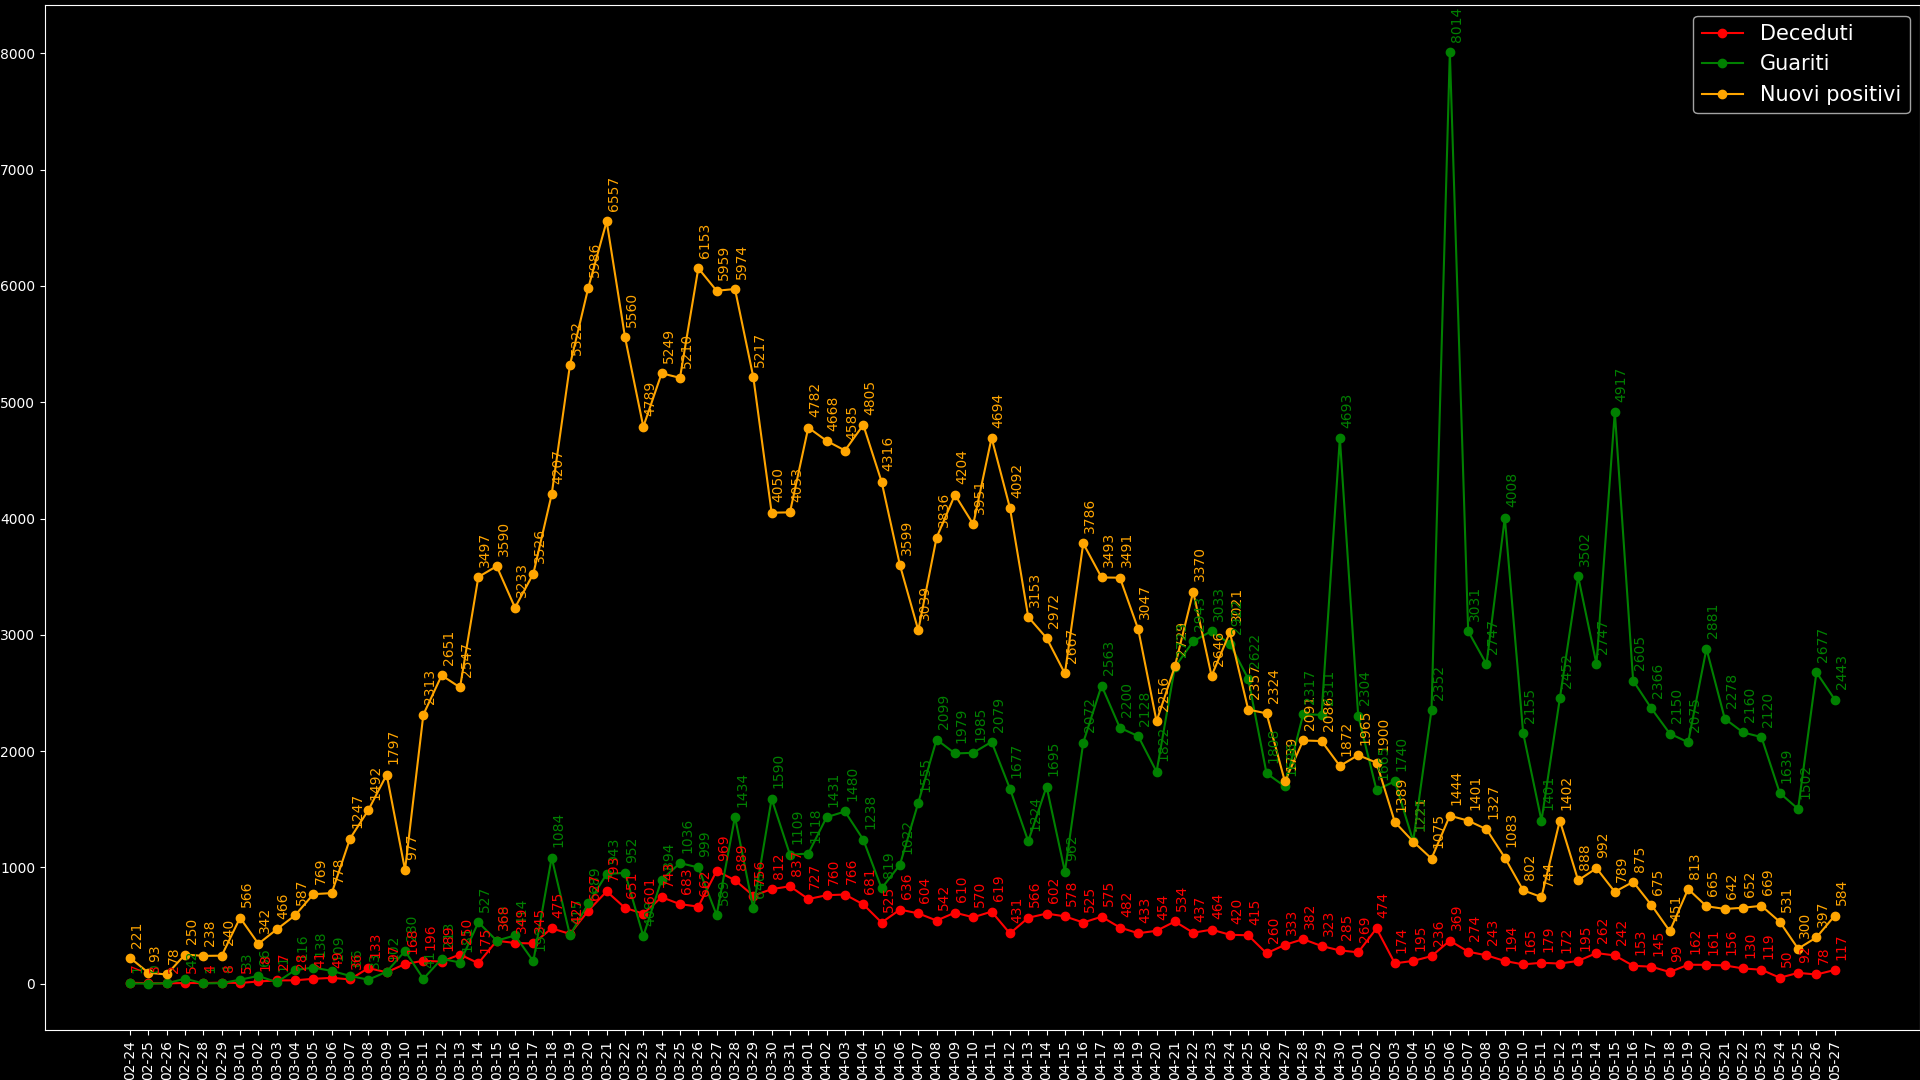
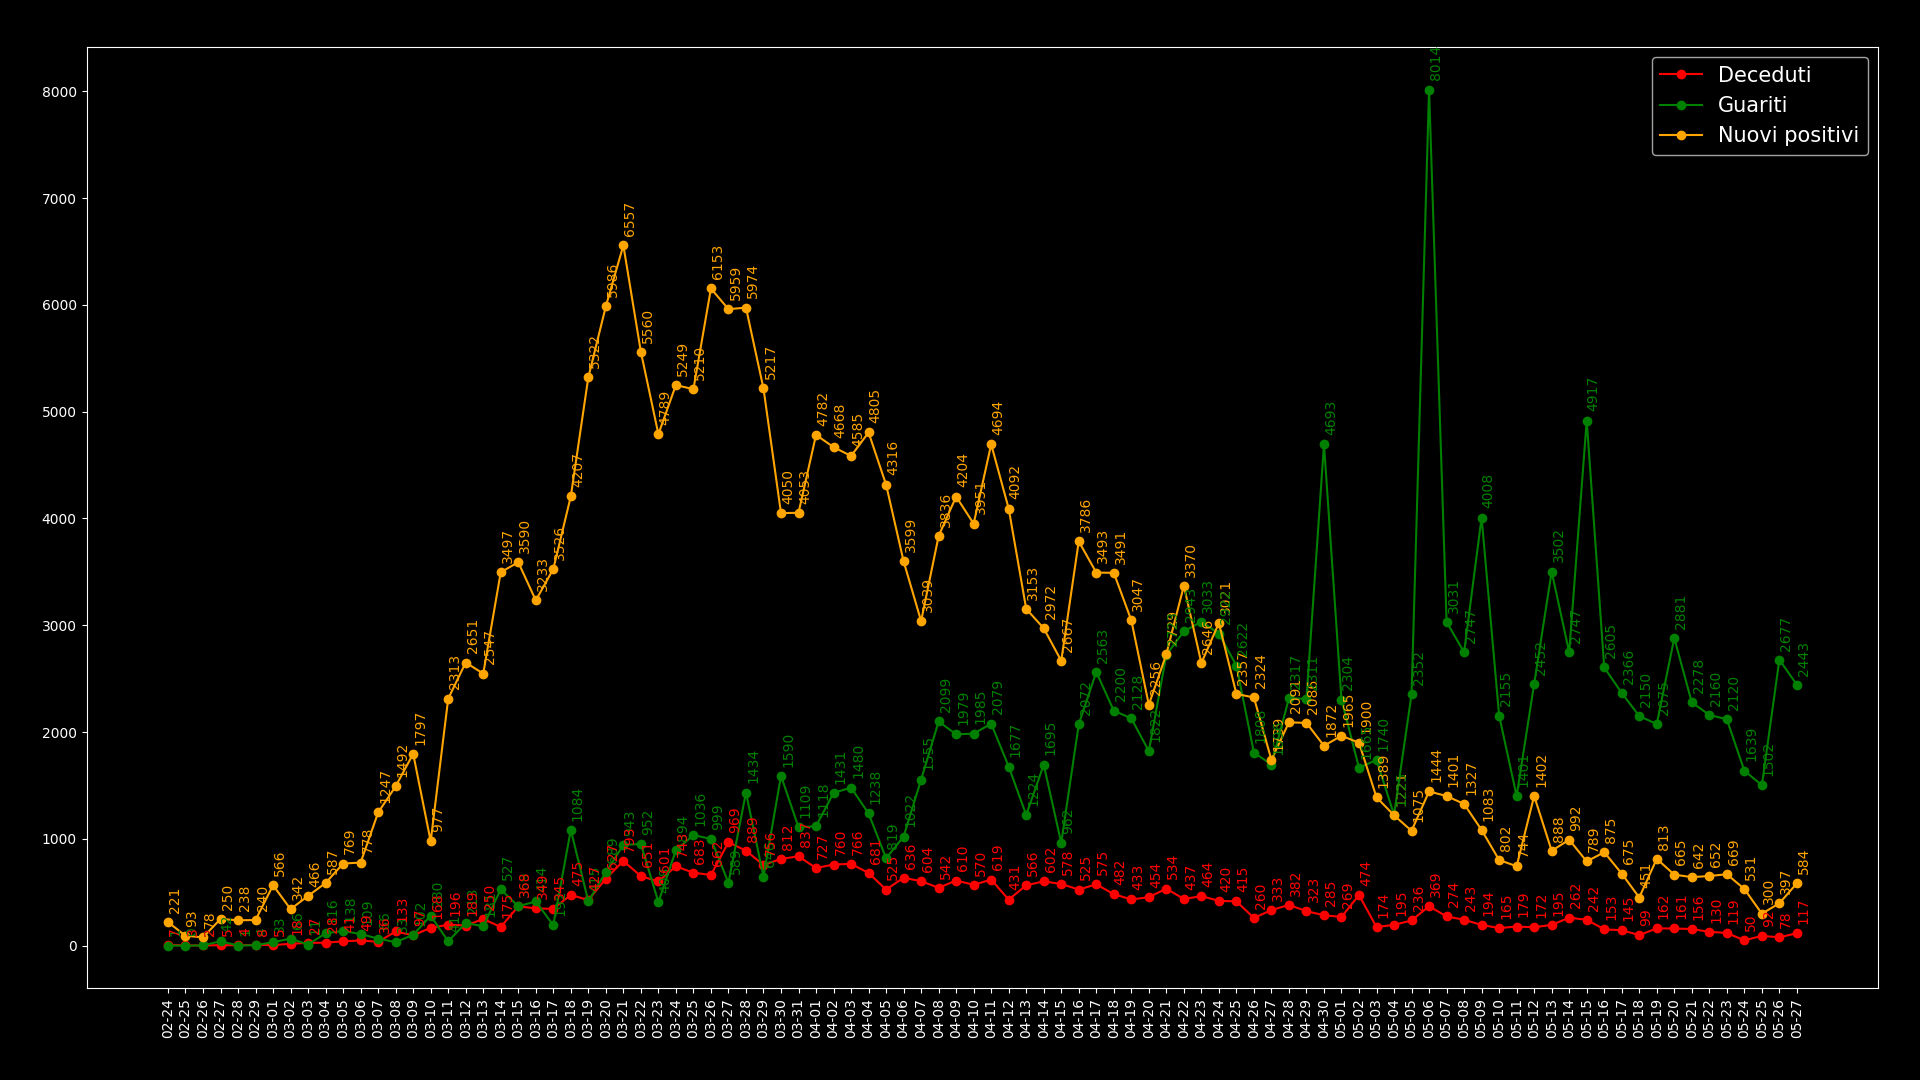
Updated site with telegram channel link

diff --git a/covid19graphs/covid19.html b/covid19graphs/covid19.html
@@ -16,14 +16,15 @@
 </head>
 
 <body class="darkbody">
-    <div style="margin-top:4%; text-align:center;"><img class="normal" src="assets/deathconhealperdayline.png"></div>
-    <div style="margin-top:4%; text-align:center"><img class="normal" src="assets/totposandvariation.png"></div>
-    <div style="margin-top:4%; text-align:center"><img class="normal" src="assets/tampscontdeath.png"></div>
+    <div style="text-align: left">Vuoi ricevere gli aggiornamenti direttamente su Telegram? Iscriviti a <a href="https://t.me/covid19graphs">questo canale</a></div>
+    <div style="margin-top:4%; text-align:center;"><img width="1900" height="1080" class="normal" src="assets/deathconhealperdayline.png"></div>
+    <div style="margin-top:4%; text-align:center;"><img width="1900" height="1080" class="normal" src="assets/totposandvariation.png"></div>
+    <div style="margin-top:4%; text-align:center;"><img width="1900" height="1080" class="normal" src="assets/tampscontdeath.png"></div>
     <div style="text-align: center;margin-top: 4%;">
         <div style="text-align:center;display:inline;"><img class="normal" border="1px" src="assets/posnegcumpie.png"></div>
         <div style="text-align:center;display:inline;"><img class="normal" border="1px" src="assets/posnegtodaypie.png"></div>
     </div>
-    <div style="margin-top:4%; text-align:center"><img class="normal" src="assets/posnegcumbar.png"></div>
+    <div style="margin-top:4%; text-align:center;"><img width="1900" class="normal" src="assets/posnegcumbar.png"></div>
 </body>
 
 </html>

diff --git a/css/style.css b/css/style.css
@@ -98,7 +98,6 @@ tr {
 
 .normal {
     filter: invert(0%);
-    margin: auto;
 }
 
 .inverted {

diff --git a/covid19graphs/src/conthealdeathperday.py b/covid19graphs/src/conthealdeathperday.py
@@ -60,7 +60,7 @@ def main():
     rotate_ticks(ax)
     ax.legend(("Deceduti", "Guariti", "Nuovi positivi"), fontsize=15)
     add_labels((dataframe['nuovi_positivi'], dataframe['dimessi_guariti'], dataframe['deceduti']), dataframe.index, ax)
-    fig.tight_layout(pad=0.0)
+    fig.tight_layout(pad=3.0)
     fig.savefig("../assets/deathconhealperdayline.png", dpi=100)
 
 main()
